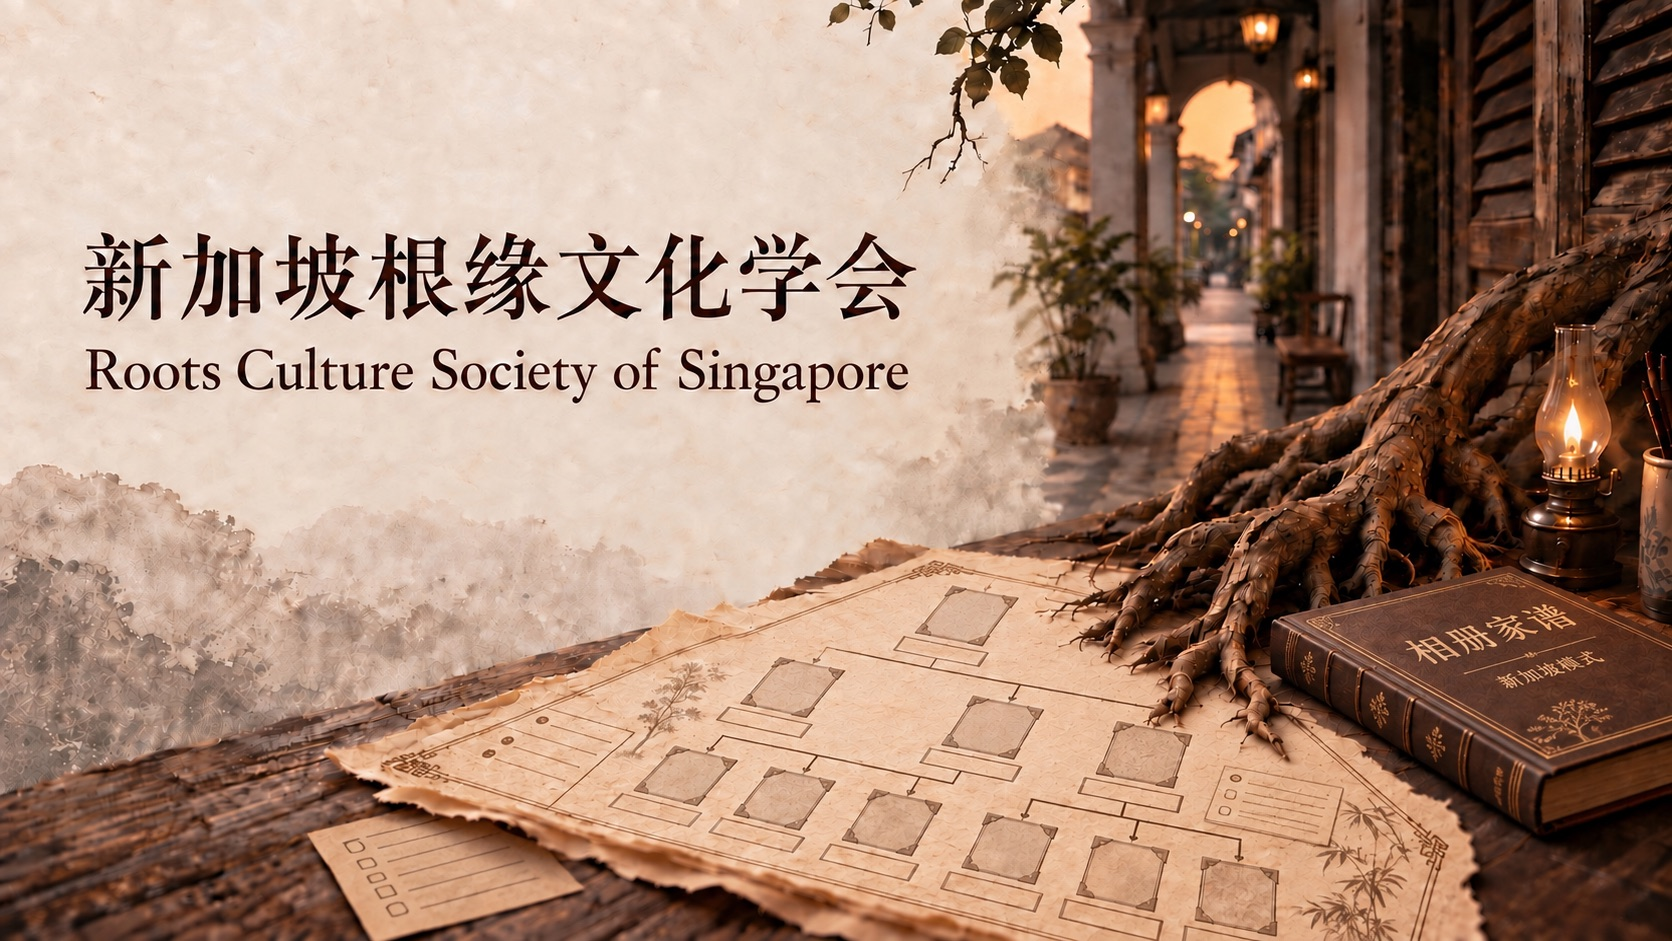
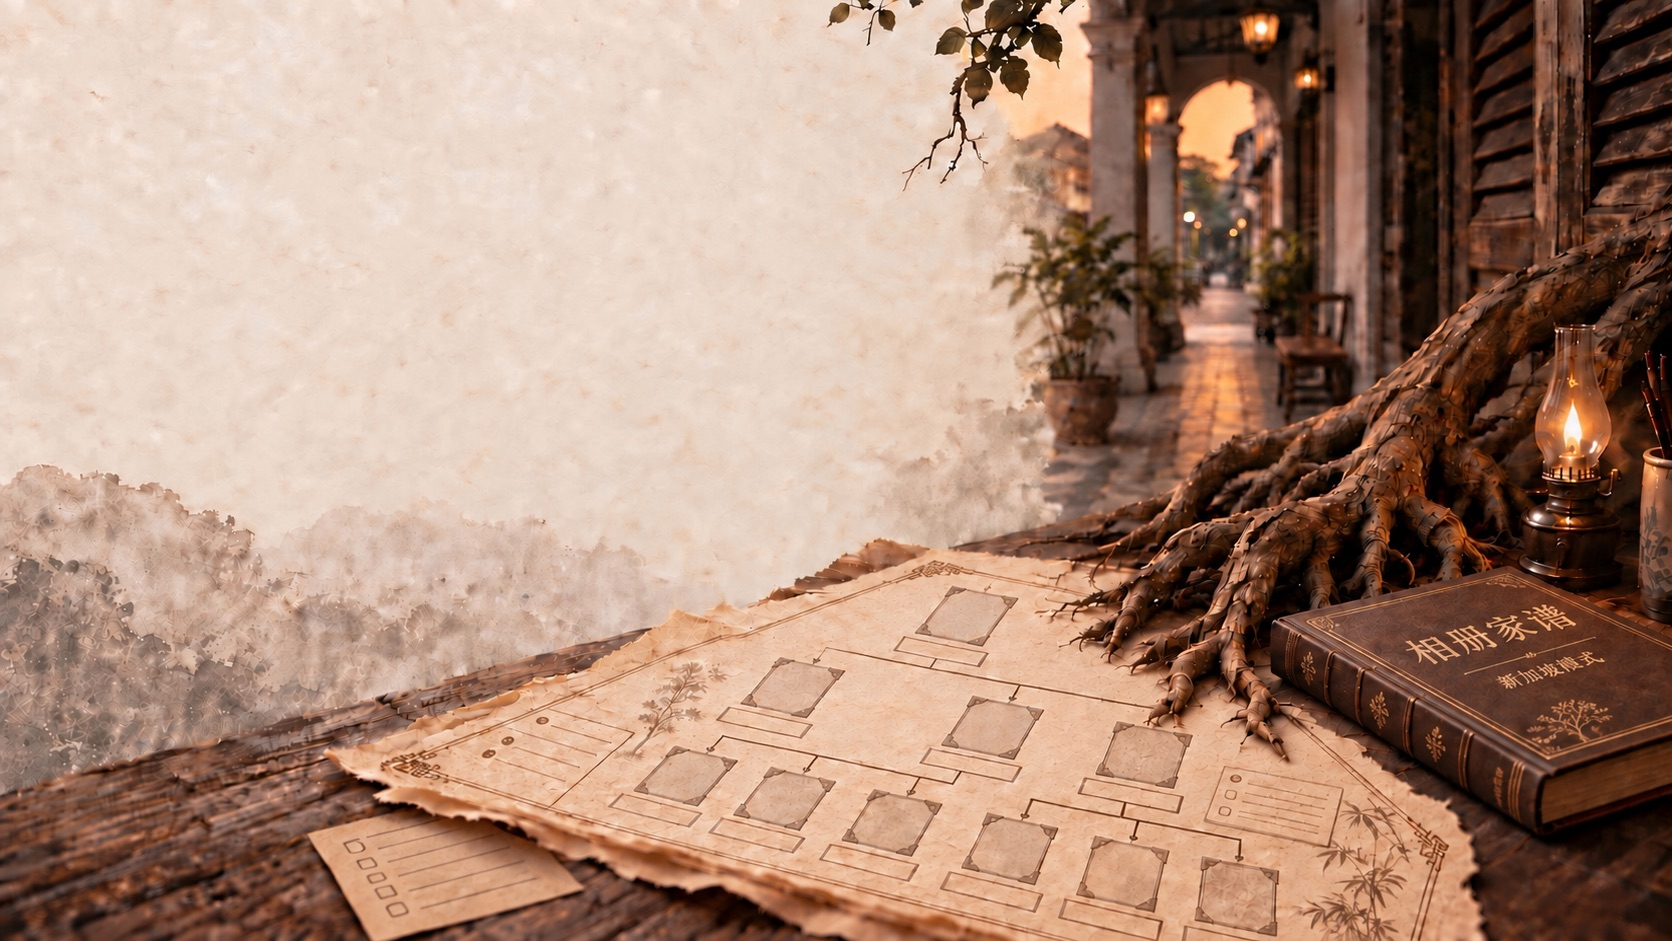
Clean up homepage hero and add PDPA notice

diff --git a/src/data/site.ts b/src/data/site.ts
@@ -75,8 +75,8 @@ export const pageCopy: Record<PageKey, { zh: any; en: any }> = {
     en: { title: 'Roots pathways', deck: 'Continue the search through public collections and cultural institutions.', paragraphs: ['These institutions offer different entrances to history, archives, books, and culture. The Society is independent of them and does not replace their research services.'] },
   },
   privacy: {
-    zh: { title: '隐私', deck: '少收集，清楚说明，尊重家庭资料的边界。', paragraphs: ['学会是本网站的资料主体。网站公共页不收集 NRIC。未来谱坊功能若上线，家谱默认私密，仅供会员及获授权者使用；电话与地址不会出现在公共页面。联络资料只用于回复你的询问。'] },
-    en: { title: 'Privacy', deck: 'Collect less, explain clearly, and respect the boundary around family records.', paragraphs: ['The Society is the data controller for this website. Public pages do not collect NRIC. If the future members’ studio is launched, genealogy books will be private by default; phone numbers and addresses will never appear on public pages. Contact details are used only to respond to enquiries.'] },
+    zh: { title: '隐私', deck: '少收集，清楚说明，尊重家庭资料的边界。', paragraphs: ['学会是本网站的资料主体。网站公共页不收集 NRIC。未来谱坊功能若上线，家谱默认私密，仅供会员及获授权者使用；电话与地址不会出现在公共页面。联络资料只用于回复你的询问。本站遵守新加坡《个人资料保护法令》(PDPA)。'] },
+    en: { title: 'Privacy', deck: 'Collect less, explain clearly, and respect the boundary around family records.', paragraphs: ['The Society is the data controller for this website. Public pages do not collect NRIC. If the future members’ studio is launched, genealogy books will be private by default; phone numbers and addresses will never appear on public pages. Contact details are used only to respond to enquiries. This website complies with Singapore’s Personal Data Protection Act (PDPA).'] },
   },
   terms: {
     zh: { title: '使用条款', deck: '这里是学会的公共文化网站。', paragraphs: ['网站内容供一般文化与寻根参考。外部链接由各机构管理，学会不保证其内容持续可用。未经许可，不得复制、改编或冒充学会发布内容。入会与未来谱坊服务以学会另行说明为准。'] },
